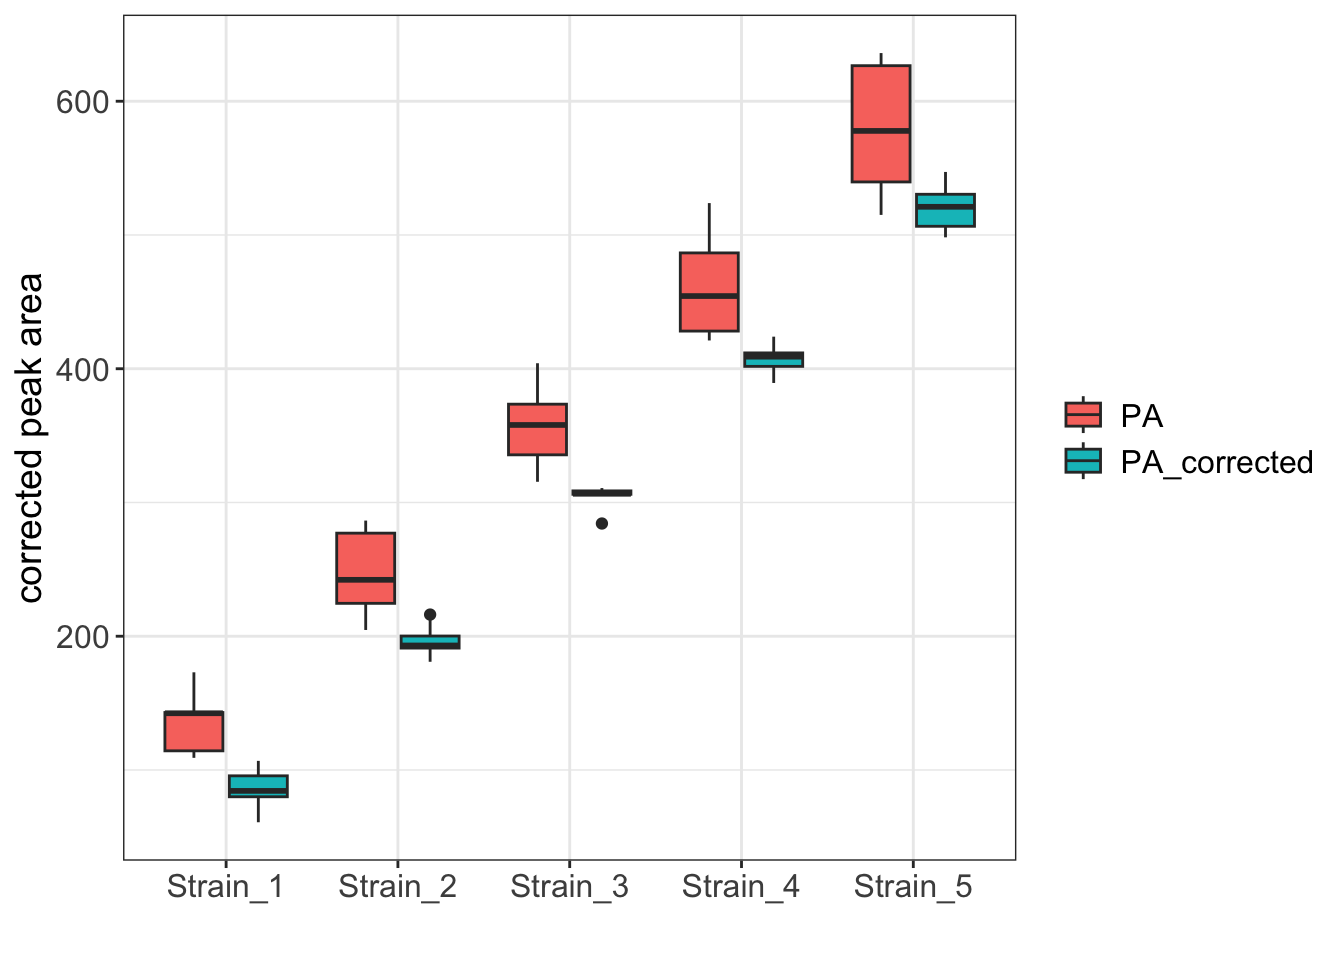
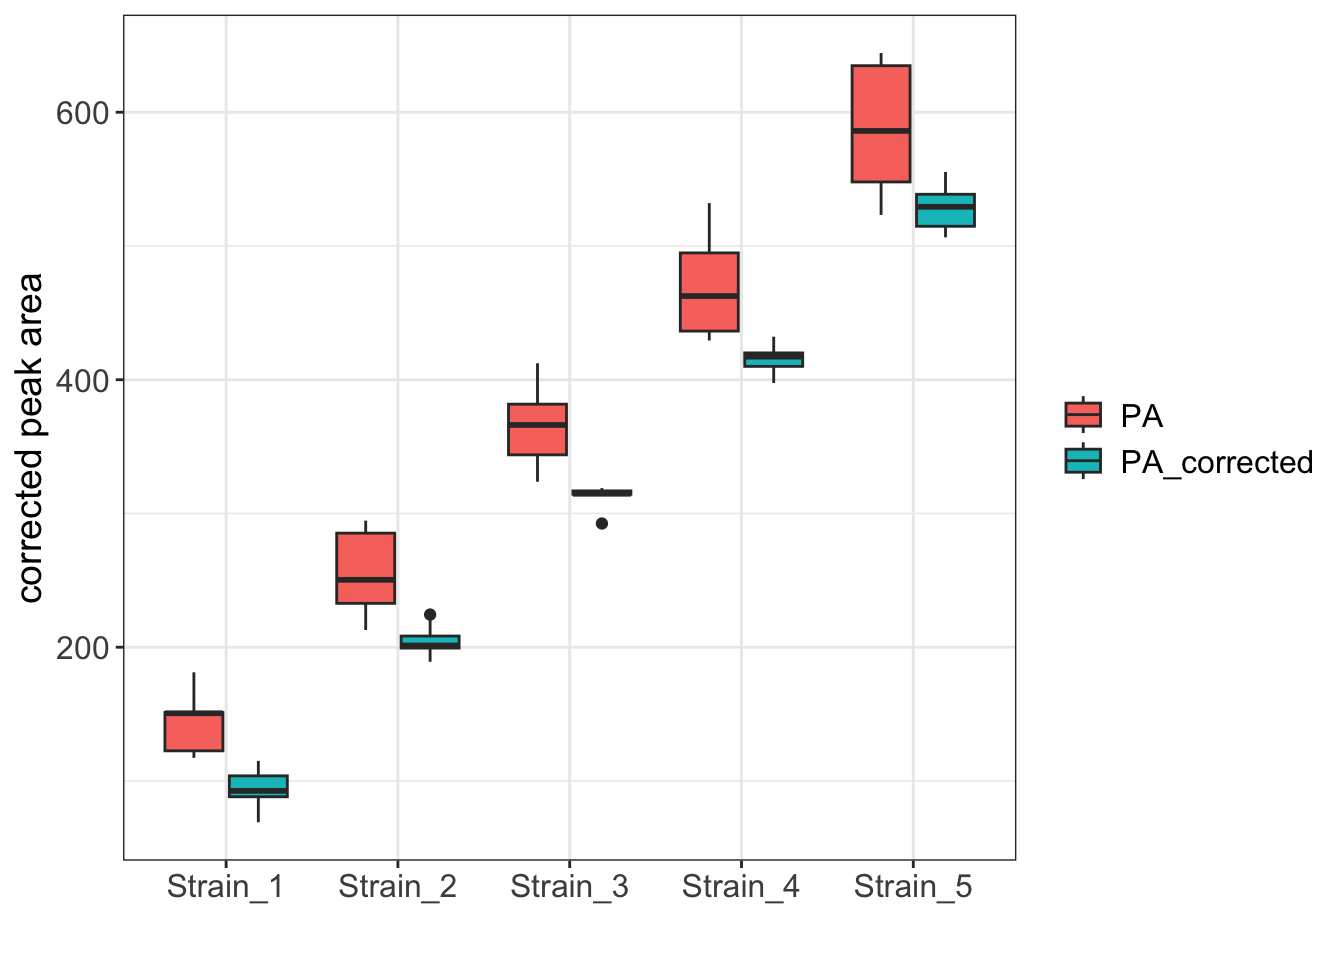
renamed html output to index.html

diff --git a/index.html b/index.html
@@ -131,42 +131,42 @@ pre > code.sourceCode > span > a:first-child::before { text-decoration: underlin
 <td style="text-align: left;">Strain_1</td>
 <td style="text-align: right;">1</td>
 <td style="text-align: right;">104.96714</td>
-<td style="text-align: right;">109.0794</td>
+<td style="text-align: right;">117.2954</td>
 </tr>
 <tr class="even">
 <td style="text-align: right;">2</td>
 <td style="text-align: left;">Strain_2</td>
 <td style="text-align: right;">1</td>
 <td style="text-align: right;">199.52016</td>
-<td style="text-align: right;">204.6824</td>
+<td style="text-align: right;">212.8984</td>
 </tr>
 <tr class="odd">
 <td style="text-align: right;">3</td>
 <td style="text-align: left;">Strain_3</td>
 <td style="text-align: right;">1</td>
 <td style="text-align: right;">309.26304</td>
-<td style="text-align: right;">315.4753</td>
+<td style="text-align: right;">323.6913</td>
 </tr>
 <tr class="even">
 <td style="text-align: right;">4</td>
 <td style="text-align: left;">Strain_4</td>
 <td style="text-align: right;">1</td>
 <td style="text-align: right;">420.89253</td>
-<td style="text-align: right;">428.1548</td>
+<td style="text-align: right;">436.3708</td>
 </tr>
 <tr class="odd">
 <td style="text-align: right;">5</td>
 <td style="text-align: left;">Strain_5</td>
 <td style="text-align: right;">1</td>
 <td style="text-align: right;">506.70680</td>
-<td style="text-align: right;">515.0190</td>
+<td style="text-align: right;">523.2350</td>
 </tr>
 <tr class="even">
 <td style="text-align: right;">6</td>
 <td style="text-align: left;">Strain_1</td>
 <td style="text-align: right;">2</td>
 <td style="text-align: right;">99.87814</td>
-<td style="text-align: right;">109.2404</td>
+<td style="text-align: right;">117.4564</td>
 </tr>
 </tbody>
 </table>
@@ -216,17 +216,17 @@ Residuals:
 
 Coefficients:
                Estimate Std. Error t value Pr(&gt;|t|)    
-StrainStrain_1   133.83      11.21   11.94 9.25e-15 ***
-StrainStrain_2   246.29      11.21   21.97  &lt; 2e-16 ***
-StrainStrain_3   357.32      11.21   31.87  &lt; 2e-16 ***
-StrainStrain_4   461.93      11.21   41.20  &lt; 2e-16 ***
-StrainStrain_5   578.78      11.21   51.62  &lt; 2e-16 ***
+StrainStrain_1   142.05      11.21   12.67 1.39e-15 ***
+StrainStrain_2   254.51      11.21   22.70  &lt; 2e-16 ***
+StrainStrain_3   365.53      11.21   32.60  &lt; 2e-16 ***
+StrainStrain_4   470.15      11.21   41.93  &lt; 2e-16 ***
+StrainStrain_5   587.00      11.21   52.35  &lt; 2e-16 ***
 ---
 Signif. codes:  0 '***' 0.001 '**' 0.01 '*' 0.05 '.' 0.1 ' ' 1
 
 Residual standard error: 33.64 on 40 degrees of freedom
-Multiple R-squared:  0.9934,    Adjusted R-squared:  0.9926 
-F-statistic:  1200 on 5 and 40 DF,  p-value: &lt; 2.2e-16</code></pre>
+Multiple R-squared:  0.9936,    Adjusted R-squared:  0.9928 
+F-statistic:  1248 on 5 and 40 DF,  p-value: &lt; 2.2e-16</code></pre>
 </div>
 </div>
 <p><br></p>
@@ -246,18 +246,18 @@ Residuals:
 
 Coefficients:
                Estimate Std. Error t value Pr(&gt;|t|)    
-StrainStrain_1  86.1725     5.3720   16.04   &lt;2e-16 ***
-StrainStrain_2 196.3581     5.4619   35.95   &lt;2e-16 ***
-StrainStrain_3 305.1138     5.5544   54.93   &lt;2e-16 ***
-StrainStrain_4 407.4581     5.6494   72.12   &lt;2e-16 ***
-StrainStrain_5 522.0399     5.7468   90.84   &lt;2e-16 ***
+StrainStrain_1  94.3885     5.3720   17.57   &lt;2e-16 ***
+StrainStrain_2 204.5741     5.4619   37.45   &lt;2e-16 ***
+StrainStrain_3 313.3298     5.5544   56.41   &lt;2e-16 ***
+StrainStrain_4 415.6741     5.6494   73.58   &lt;2e-16 ***
+StrainStrain_5 530.2559     5.7468   92.27   &lt;2e-16 ***
 Inject_order     2.2696     0.1505   15.08   &lt;2e-16 ***
 ---
 Signif. codes:  0 '***' 0.001 '**' 0.01 '*' 0.05 '.' 0.1 ' ' 1
 
 Residual standard error: 13.03 on 39 degrees of freedom
-Multiple R-squared:  0.999, Adjusted R-squared:  0.9989 
-F-statistic:  6702 on 6 and 39 DF,  p-value: &lt; 2.2e-16</code></pre>
+Multiple R-squared:  0.9991,    Adjusted R-squared:  0.9989 
+F-statistic:  6963 on 6 and 39 DF,  p-value: &lt; 2.2e-16</code></pre>
 </div>
 </div>
 <p><br></p>
@@ -352,11 +352,11 @@ Residuals:
 
 Coefficients:
                             Estimate Std. Error t value Pr(&gt;|t|)    
-StrainStrain_1              103.4273     6.4949  15.924  &lt; 2e-16 ***
-StrainStrain_2              201.5509     6.7208  29.989  &lt; 2e-16 ***
-StrainStrain_3              311.6660     6.9493  44.848  &lt; 2e-16 ***
-StrainStrain_4              400.2152     7.1802  55.738  &lt; 2e-16 ***
-StrainStrain_5              496.0203     7.4133  66.909  &lt; 2e-16 ***
+StrainStrain_1              111.6433     6.4949  17.189  &lt; 2e-16 ***
+StrainStrain_2              209.7669     6.7208  31.212  &lt; 2e-16 ***
+StrainStrain_3              319.8820     6.9493  46.031  &lt; 2e-16 ***
+StrainStrain_4              408.4312     7.1802  56.883  &lt; 2e-16 ***
+StrainStrain_5              504.2363     7.4133  68.018  &lt; 2e-16 ***
 StrainStrain_1:Inject_order   1.4480     0.2635   5.496 3.57e-06 ***
 StrainStrain_2:Inject_order   2.0336     0.2635   7.718 4.63e-09 ***
 StrainStrain_3:Inject_order   1.9848     0.2635   7.533 7.95e-09 ***
@@ -367,7 +367,7 @@ Signif. codes:  0 '***' 0.001 '**' 0.01 '*' 0.05 '.' 0.1 ' ' 1
 
 Residual standard error: 10.2 on 35 degrees of freedom
 Multiple R-squared:  0.9995,    Adjusted R-squared:  0.9993 
-F-statistic:  6562 on 10 and 35 DF,  p-value: &lt; 2.2e-16</code></pre>
+F-statistic:  6818 on 10 and 35 DF,  p-value: &lt; 2.2e-16</code></pre>
 </div>
 </div>
 </section>
